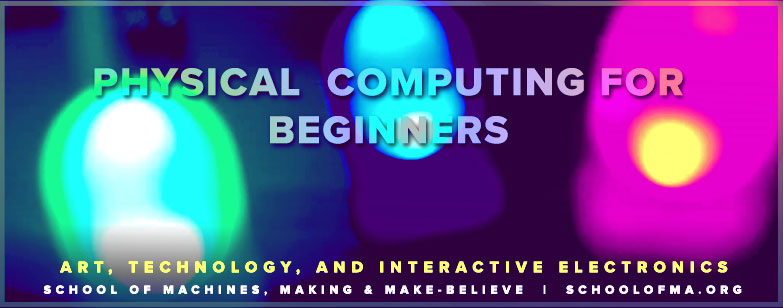
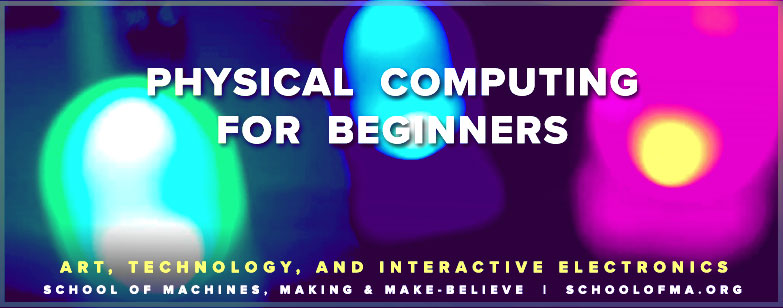
phys

Changed region(s): [[0.1226, 0.2045, 0.8889, 0.3506], [0.2759, 0.3506, 0.7356, 0.4968]]

diff --git a/physical-computing/index.html b/physical-computing/index.html
@@ -6,7 +6,7 @@ title: Physical Computing
 <section class="programs program__item">
   <article class="program">
 
-    <img src="http://schoolofma.org/i/physicalComputing.jpg" class="pic" style="margin-left: 0;">
+    <img src="http://schoolofma.org/i/physicalComputing2.jpg" class="pic" style="margin-left: 0;">
 
     <p class="text"><strong style="font-weight: bold;"> How can physical computing and interactivity help us to better sense and respond to the world around us? How can we express who we are and what we envision for the future by creating experimental games?</strong></p>
 
@@ -175,24 +175,6 @@ title: Physical Computing
 
 <p class="text">This interactive cross stitch activity introduces those who are unfamiliar with technology to the Internet.  By connecting to an-on screen lesson, the object becomes a controller that advances the tutorial as each stitch is made, bridging the gap between analog and digital processes. Project by Alice Stewart.</p>
 
-
-<div class='embed-container'>
-  <iframe src='https://www.youtube.com/embed/91_gWryT-9w' frameborder='0' webkitAllowFullScreen mozallowfullscreen allowFullScreen></iframe>
-</div>
-
-<p class="text"> Inspired by old model trains, Seduce the Train, a project by Kati Hyppa with Niklas Roy, is a two-person game played in turns, moving the train from one station to another. It was originally conceived at Eniarof, a pop-up fun fair concept by Antonin Fourneau.</p>
-
-<div class="embed-container">
-  <iframe src='https://player.vimeo.com/video/128072915' frameborder='0' webkitAllowFullScreen mozallowfullscreen allowFullScreen></iframe>
-</div>
-
-<p class="text">The Forbidden Fruit Machine is an interactive installation by Kati Hyppa with Niklas Roy. It is based on a painting called "The Fall of Man" created by Cornelis Cornelisz. van Haarlem in 1592. The machine reinterprets the historical artwork in the form of a mechatronic video game, giving the spectator of the painting the chance to control the destiny of the forbidden apple with a joystick.</p>
-
-<div class='embed-container'>
-  <iframe src='https://player.vimeo.com/video/7548051' frameborder='0' webkitAllowFullScreen mozallowfullscreen allowFullScreen></iframe>
-</div>
-
-<p class="text">Pongmechanik is an electro mechanical version of the video game pong. The game is controlled by a circuit of telephone relays. Project by Niklas Roy.</p>
 
 
 
